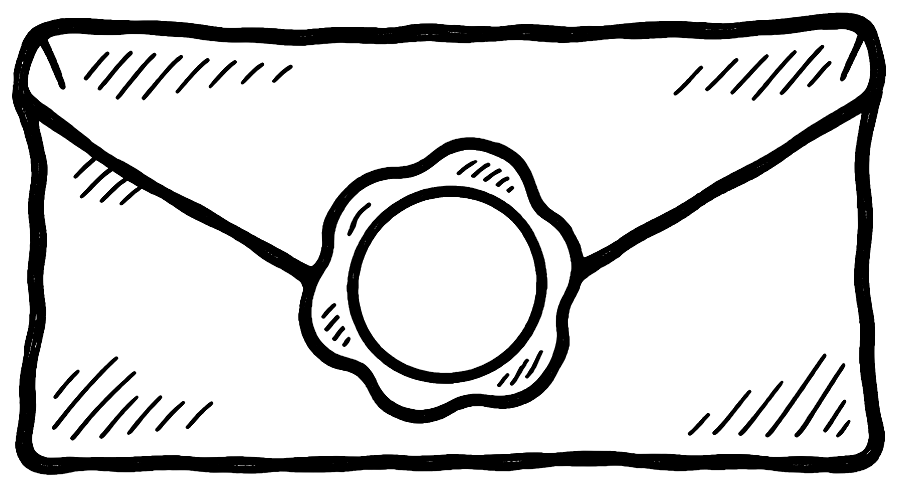
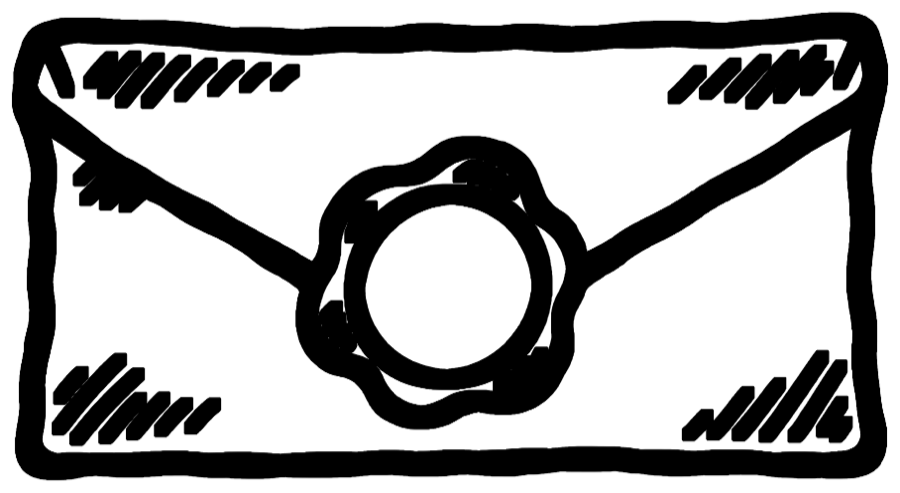
Show more of a long line, finish writing from the header, and thicken the emblems
- A line too long for two lines is written smaller on three, in the same row height.
- A touch on the header finishes a row being written, like a touch anywhere else.
- By night the shelf counts what is planned and does not carry the day's NEW.
- The kinds' emblems are imported with their strokes widened, so they read at shelf size.

Changed region(s): [[0.0, 0.0307, 0.9978, 0.9836], [0.9042, 0.0, 0.9354, 0.0307]]

diff --git a/src/components/GestureList.tsx b/src/components/GestureList.tsx
@@ -319,6 +319,9 @@ export const GestureList: FC<GestureListProps> = ({
   const strikeFor = (row: GestureListRow) =>
     isShelf || row.section || row.done ? 0 : Math.min(textRoom, row.text.length * CHAR_WIDTH);
 
+  /** Too long for two lines at the usual size: such a line is written smaller, on three, so more of it can be read. */
+  const isLong = (row: GestureListRow) => !isShelf && !row.section && row.text.length * CHAR_WIDTH > textRoom * 2;
+
   const nudgeScroll = (direction: -1 | 1) => {
     scrollView.current?.scrollTo({ y: Math.max(0, scrollOffset.current + direction * ROW_HEIGHT * 1.5), animated: true });
   };
@@ -754,9 +757,16 @@ export const GestureList: FC<GestureListProps> = ({
           </View>
         ) : (
           <Text
-            style={[styles.rowText, styles.fill, row.section ? styles.sectionText : !isShelf && styles.itemText, row.done && styles.doneText, row.vellum && isShelf ? { color: row.vellum.ink } : null]}
-            // A long item runs onto a second line before it is cut short.
-            numberOfLines={isShelf || row.section ? 1 : 2}
+            style={[
+              styles.rowText,
+              styles.fill,
+              row.section ? styles.sectionText : !isShelf && styles.itemText,
+              isLong(row) && styles.longText,
+              row.done && styles.doneText,
+              row.vellum && isShelf ? { color: row.vellum.ink } : null,
+            ]}
+            // A long item runs onto a second line; a longer one is written smaller and given a third before it is cut short.
+            numberOfLines={isShelf || row.section ? 1 : isLong(row) ? 3 : 2}
             maxFontSizeMultiplier={MAX_TEXT_SCALE}
           >
             {written(row, index)}
@@ -835,7 +845,14 @@ export const GestureList: FC<GestureListProps> = ({
 
   return (
     <Animated.View entering={FadeIn.duration(180)} style={[styles.screen, { paddingTop: insets.top }]}>
-      <View style={styles.header}>
+      <View
+        style={styles.header}
+        // A touch on the header while a row is being written finishes it, like a touch anywhere else. The title's own
+        // editing is left alone: its field is in the header.
+        onTouchStart={() => {
+          if (busy && titleDraft === null) doneWriting();
+        }}
+      >
         {canGoBack ? (
           <Pressable onPress={leave} hitSlop={14} accessibilityRole="button" accessibilityLabel="Close scroll">
             <Text style={styles.back}>‹</Text>
@@ -1115,6 +1132,8 @@ const makeStyles = (colors: Palette) =>
   sectionText: { fontFamily: fonts.display, fontSize: 26, marginLeft: 3 },
   // Close enough set that two lines sit inside one row with air above and below.
   itemText: { lineHeight: Math.round(25 * TEXT_SCALE) },
+  // Three lines in the height two usually take: rows keep one height, which reordering by hand depends on.
+  longText: { fontSize: 16.5, lineHeight: Math.round(18.5 * TEXT_SCALE) },
   rubric: { color: colors.accent },
   doneText: { color: colors.inkFaded, textDecorationLine: 'line-through', textDecorationColor: colors.accent },
   badge: { color: colors.inkFaded, fontFamily: fonts.label, fontSize: 14, letterSpacing: 1, marginLeft: 12 },

diff --git a/src/art.ts b/src/art.ts
@@ -70,14 +70,14 @@ export const initialFrames: Partial<Record<ThemeName, Drawing>> = {
 
 /** A small emblem for each kind of scroll. */
 export const kindEmblems: Partial<Record<'decree' | 'ledger' | 'market' | 'quest' | 'spell' | 'revel' | 'missive' | 'rite', Drawing>> = {
-  decree: { source: require('../assets/art/kind-decree.png'), width: 900, height: 464 },
-  ledger: { source: require('../assets/art/kind-ledger.png'), width: 898, height: 755 },
-  market: { source: require('../assets/art/kind-market.png'), width: 761, height: 798 },
-  missive: { source: require('../assets/art/kind-missive.png'), width: 898, height: 488 },
-  quest: { source: require('../assets/art/kind-quest.png'), width: 765, height: 1044 },
-  revel: { source: require('../assets/art/kind-revel.png'), width: 822, height: 810 },
-  rite: { source: require('../assets/art/kind-rite.png'), width: 900, height: 703 },
-  spell: { source: require('../assets/art/kind-spell.png'), width: 769, height: 805 },
+  decree: { source: require('../assets/art/kind-decree.png'), width: 900, height: 468 },
+  ledger: { source: require('../assets/art/kind-ledger.png'), width: 900, height: 758 },
+  market: { source: require('../assets/art/kind-market.png'), width: 771, height: 808 },
+  missive: { source: require('../assets/art/kind-missive.png'), width: 900, height: 493 },
+  quest: { source: require('../assets/art/kind-quest.png'), width: 775, height: 1054 },
+  revel: { source: require('../assets/art/kind-revel.png'), width: 832, height: 820 },
+  rite: { source: require('../assets/art/kind-rite.png'), width: 900, height: 705 },
+  spell: { source: require('../assets/art/kind-spell.png'), width: 779, height: 815 },
 };
 
 /** Single line drawings by name, when they have been made. */

diff --git a/src/App.tsx b/src/App.tsx
@@ -748,7 +748,8 @@ const Screens: FC<{ settings: Settings; address: Address; night: boolean; onCand
           // So is one of the day's own scrolls that has had lines written on it for tomorrow.
           const morrow = !list.tomorrow && ((list.plannedFor !== undefined && list.plannedFor > today) || (night && items.length > 0));
           // And one that arrived this morning, or that holds lines which did, is marked NEW for the day.
-          const fresh = !list.tomorrow && (list.plannedFor === today || items.some((item) => !item.done && item.plannedFor === today));
+          // By night the shelf counts what is planned for tomorrow, so the day's NEW is not shown there.
+          const fresh = !night && !list.tomorrow && (list.plannedFor === today || items.some((item) => !item.done && item.plannedFor === today));
           const mark = morrow ? 'MORROW' : fresh ? 'NEW' : null;
           return {
             id: list.id,

diff --git a/scripts/import-art.py b/scripts/import-art.py
@@ -51,6 +51,8 @@ BORDER = re.compile(rf"^border-({PAPERS})$")
 FRAME = re.compile(rf"^initial-({PAPERS})$")
 BOOK_MARGIN = re.compile(rf"^margin-({PAPERS})-\d+$")
 MARGIN = re.compile(r"^margin-\d+$")
+# How many pixels of the source each side of an emblem's strokes is widened by.
+EMBLEM_THICKEN = 5
 LINE_ART = re.compile(rf"^(margin-\d+|kind-({'|'.join(KINDS)})|border-({PAPERS})|initial-({PAPERS})|margin-({PAPERS})-\d+|" + "|".join(SINGLES) + r")$")
 # Painted objects cut out of a white ground, and the longest side each is scaled to.
 OBJECTS = {"wax-seal": 192, "wax-seal-blank": 300, "finial-brass": 200, "finial-iron": 200, "desk-inkwell": 480, "desk-candle": 420, "sky-sun": 640, "sky-moon": 560}
@@ -245,7 +247,22 @@ def desk_tile(source, target):
     subprocess.run(["sips", "-s", "format", "png", "-z", str(TILE_SIZE), str(TILE_SIZE), str(source), "--out", str(target)], check=True, capture_output=True)
 
 
-def key_line_art(source, target, trimmed=True, max_width=MAX_WIDTH):
+def thickened(alpha, width, radius):
+    """Every stroke widened by `radius` pixels on each side: each pixel takes the strongest ink within that reach."""
+    across = []
+    for row in alpha:
+        out = bytearray(width)
+        for x in range(width):
+            out[x] = max(row[max(0, x - radius) : x + radius + 1])
+        across.append(out)
+    down = []
+    for y in range(len(across)):
+        band = across[max(0, y - radius) : y + radius + 1]
+        down.append(bytearray(map(max, zip(*band))))
+    return down
+
+
+def key_line_art(source, target, trimmed=True, max_width=MAX_WIDTH, thicken=0):
     width, height, channels, rows = load(source)
     alpha = []
     for row in rows:
@@ -254,6 +271,8 @@ def key_line_art(source, target, trimmed=True, max_width=MAX_WIDTH):
             value = lightness(row, x, channels)
             out[x] = 0 if value >= PAPER else 255 if value <= INK else round(255 * (PAPER - value) / (PAPER - INK))
         alpha.append(out)
+    if thicken:
+        alpha = thickened(alpha, width, thicken)
     # Trim to the ink, keeping a little air around it.
     inked_rows = [y for y, row in enumerate(alpha) if any(row)]
     inked_cols = [x for x in range(width) if any(alpha[y][x] for y in inked_rows)]
@@ -384,7 +403,10 @@ def main():
             continue
         if target.exists() and target.stat().st_mtime > source.stat().st_mtime:
             continue  # already imported, and the source hasn't changed since
-        if LINE_ART.match(name):
+        if KIND.match(name):
+            # Emblems are shown at the size of a fingernail, where a pen's line all but vanishes: their strokes are widened.
+            key_line_art(source, target, thicken=EMBLEM_THICKEN)
+        elif LINE_ART.match(name):
             key_line_art(source, target)
         elif name == SCATTER:
             key_line_art(source, target, trimmed=False, max_width=SCATTER_SIZE)
